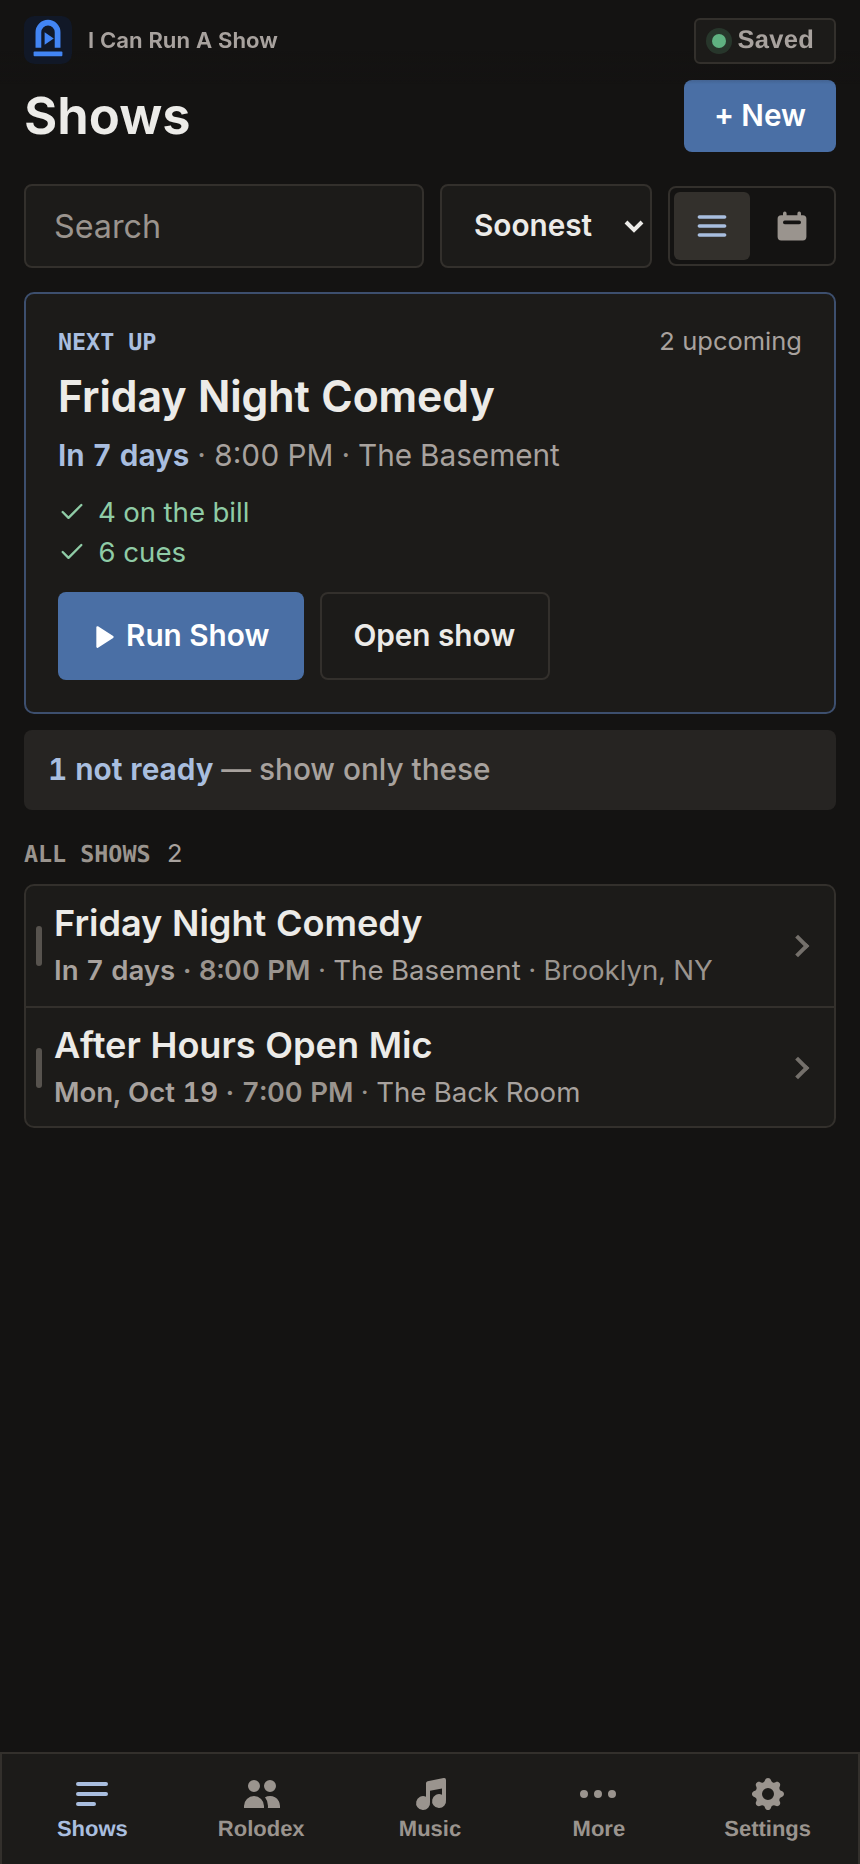
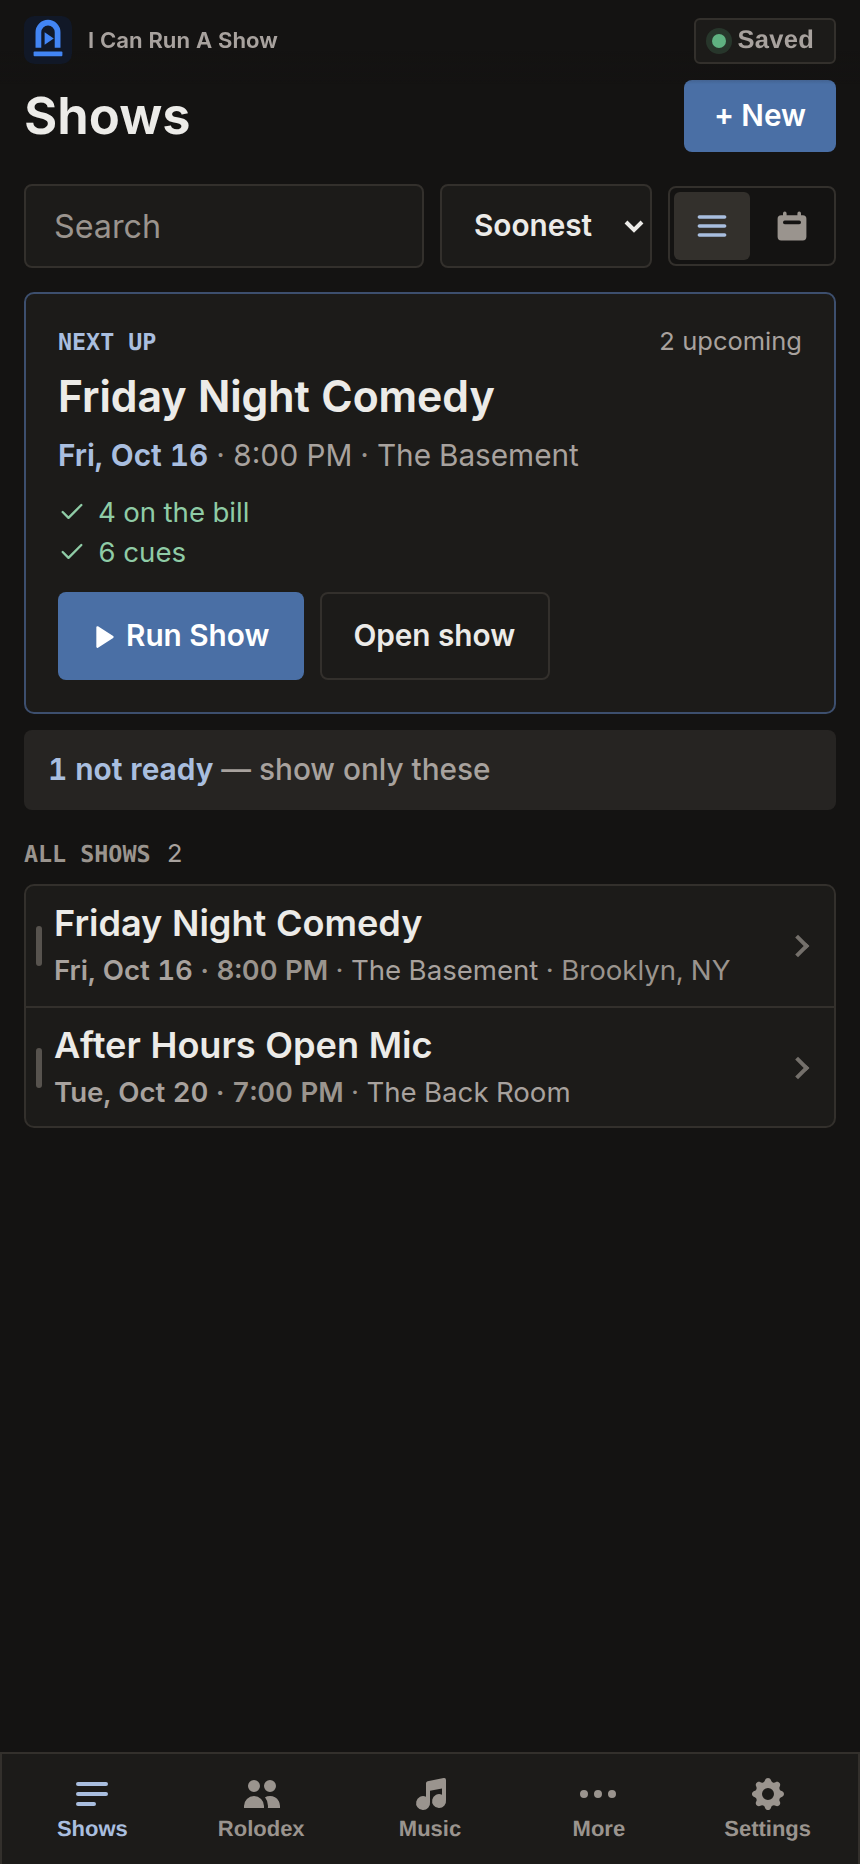
Fade the phone section tabs at the edge, and date the demo Friday on a Friday (#313)
On a phone the show page's section strip scrolls sideways, and its last
tab was sliced in half at the margin, which read as broken. A fade on
the right edge says there is more to scroll to.

The demo show in the screenshots is called Friday Night Comedy but was
dated seven days from whenever the script ran, so the sales page showed
a Friday show on a Monday. It is now booked on the next Friday at least
four days out, and the screenshots and /tour/ images are regenerated.

diff --git a/src/components/ShowDetail.css b/src/components/ShowDetail.css
@@ -3396,6 +3396,13 @@ select.show-detail__status--select {
      thing you need from anywhere on the page. Only the bar stays. */
   .show-workspace__sidebar { padding: 10px; }
   .show-workspace__sidebar nav button { padding-inline: 10px; }
+  /* On a phone the strip runs past the edge, and a tab sliced in half at the
+     margin read as broken rather than as "there's more". A fade says scroll. */
+  .show-workspace__sidebar nav {
+    -webkit-mask-image: linear-gradient(to right, #000 calc(100% - 32px), transparent);
+    mask-image: linear-gradient(to right, #000 calc(100% - 32px), transparent);
+    padding-right: 24px;
+  }
   .show-workspace__body { --workspace-gutter: 16px; padding-bottom: 20px; }
   .show-workspace__columns { grid-template-columns: minmax(0, 1fr); }
   .show-workspace__body .show-detail__title { font-size: 1.6rem; }
